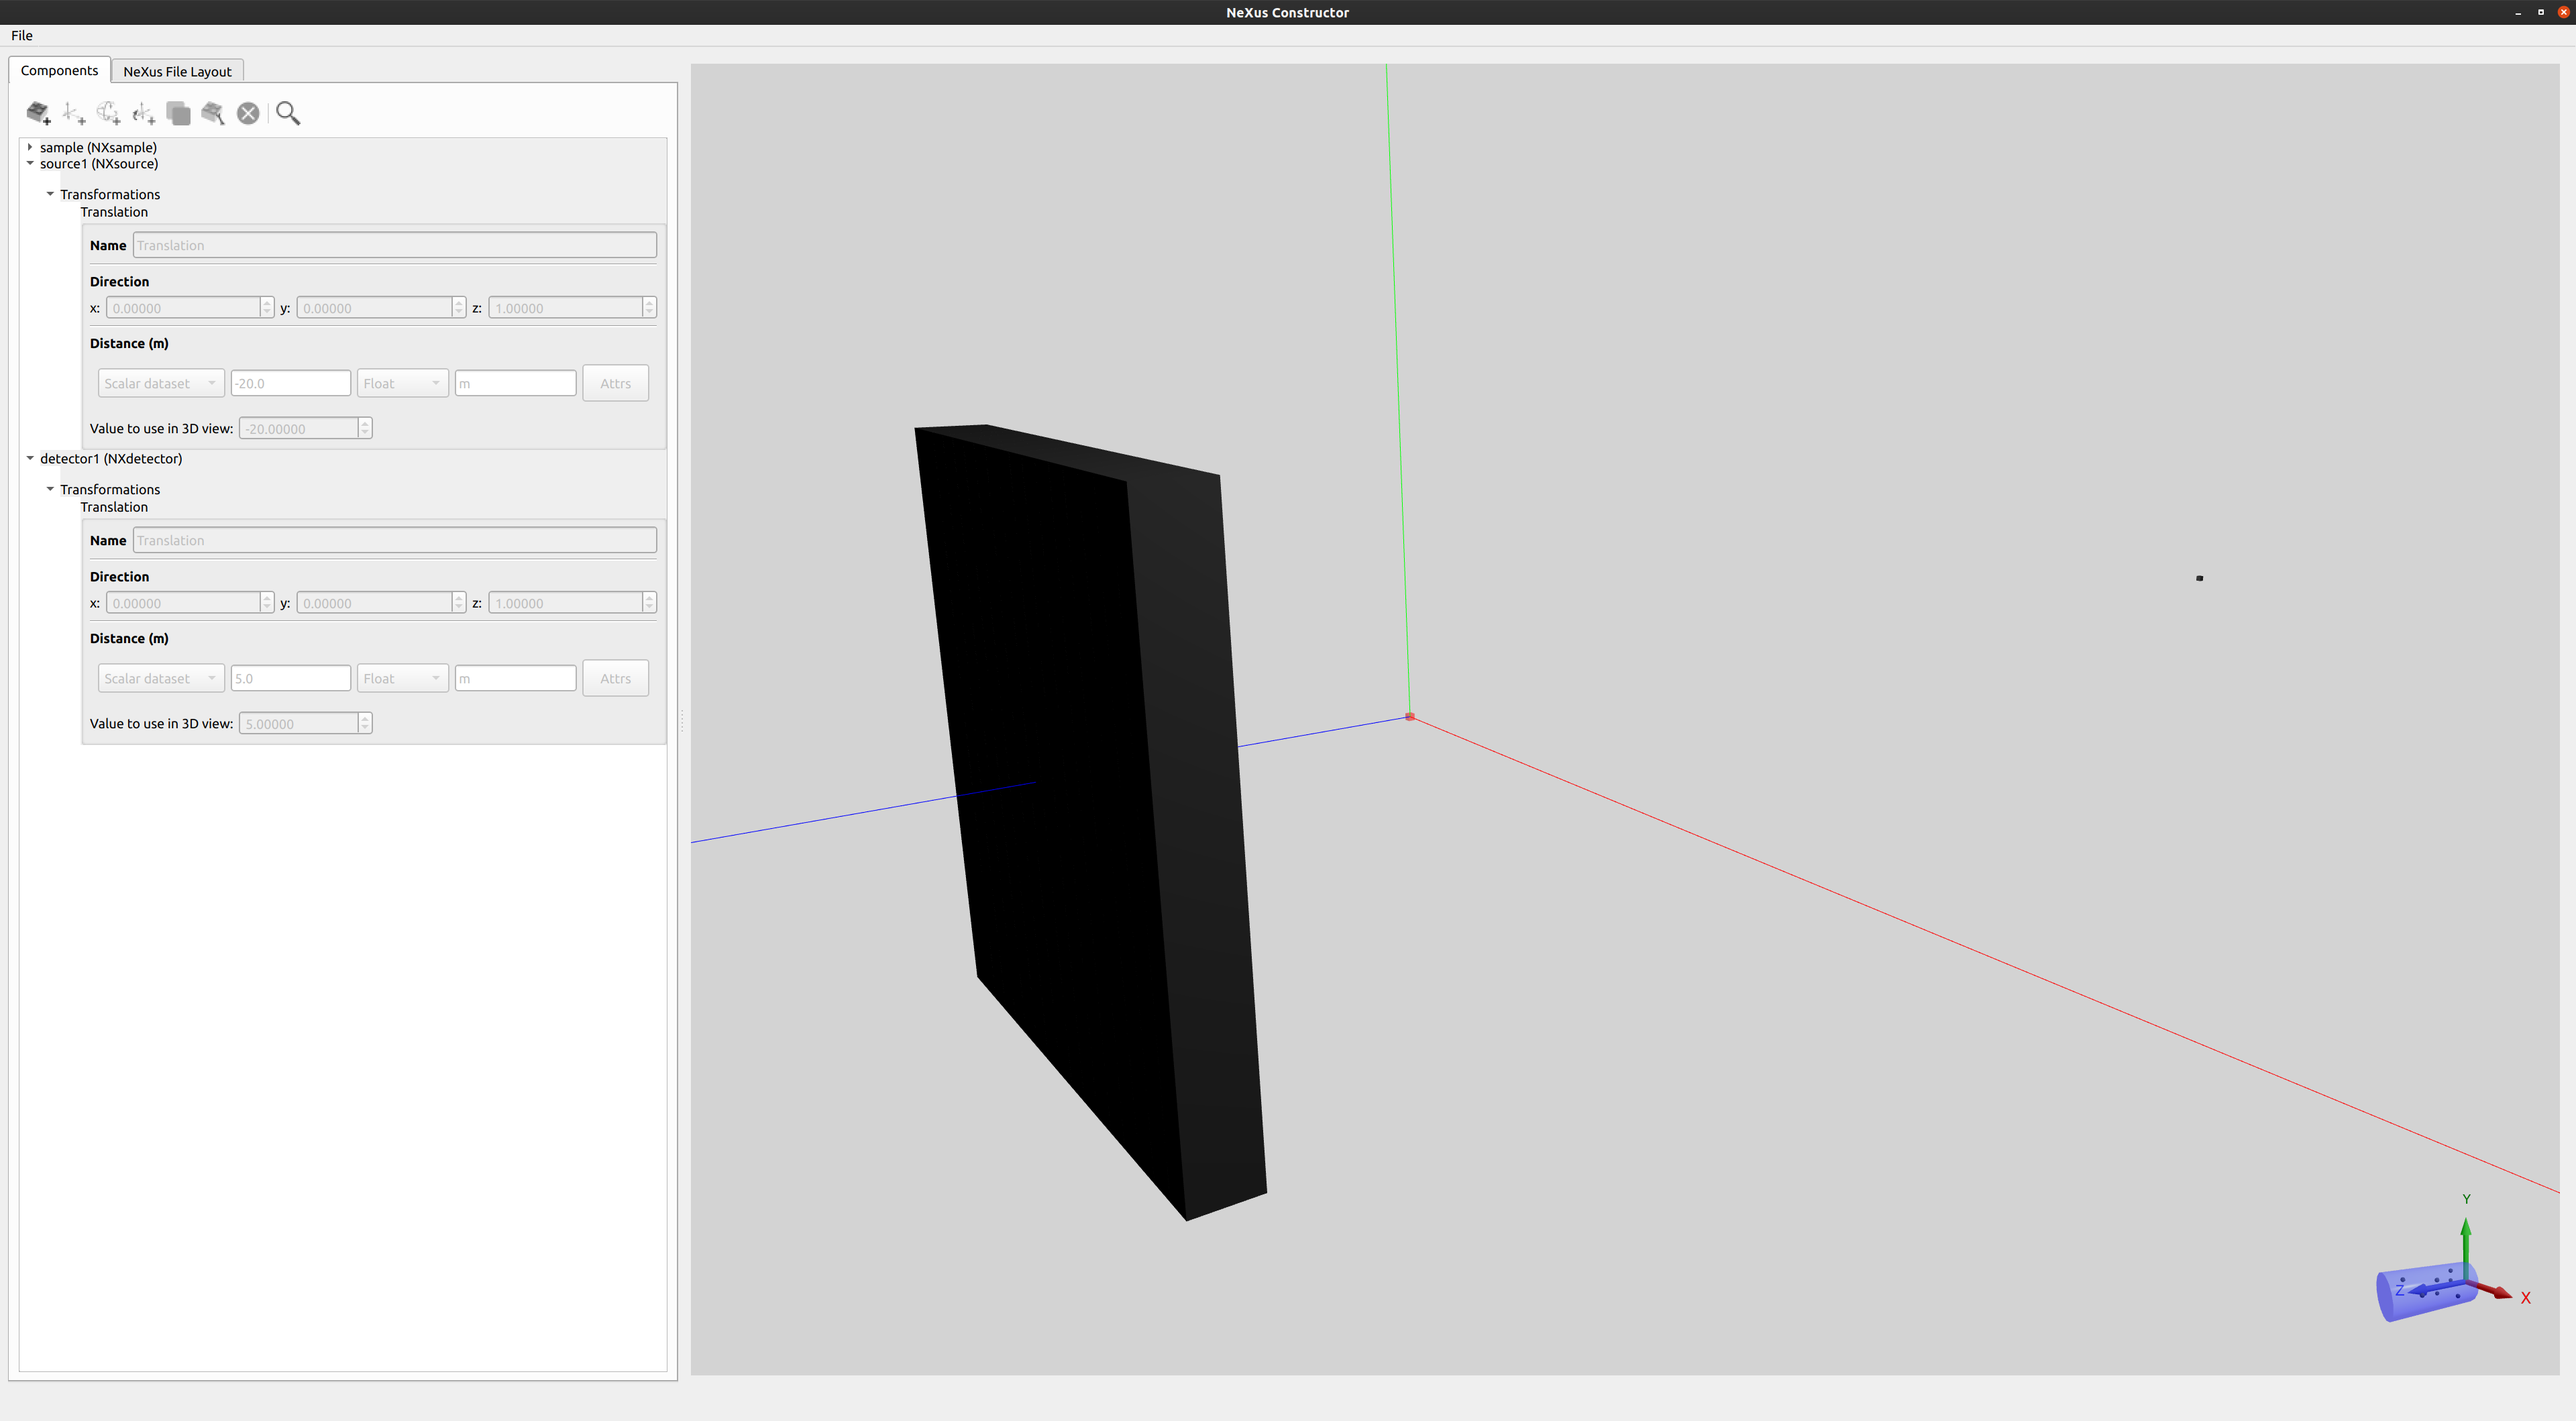
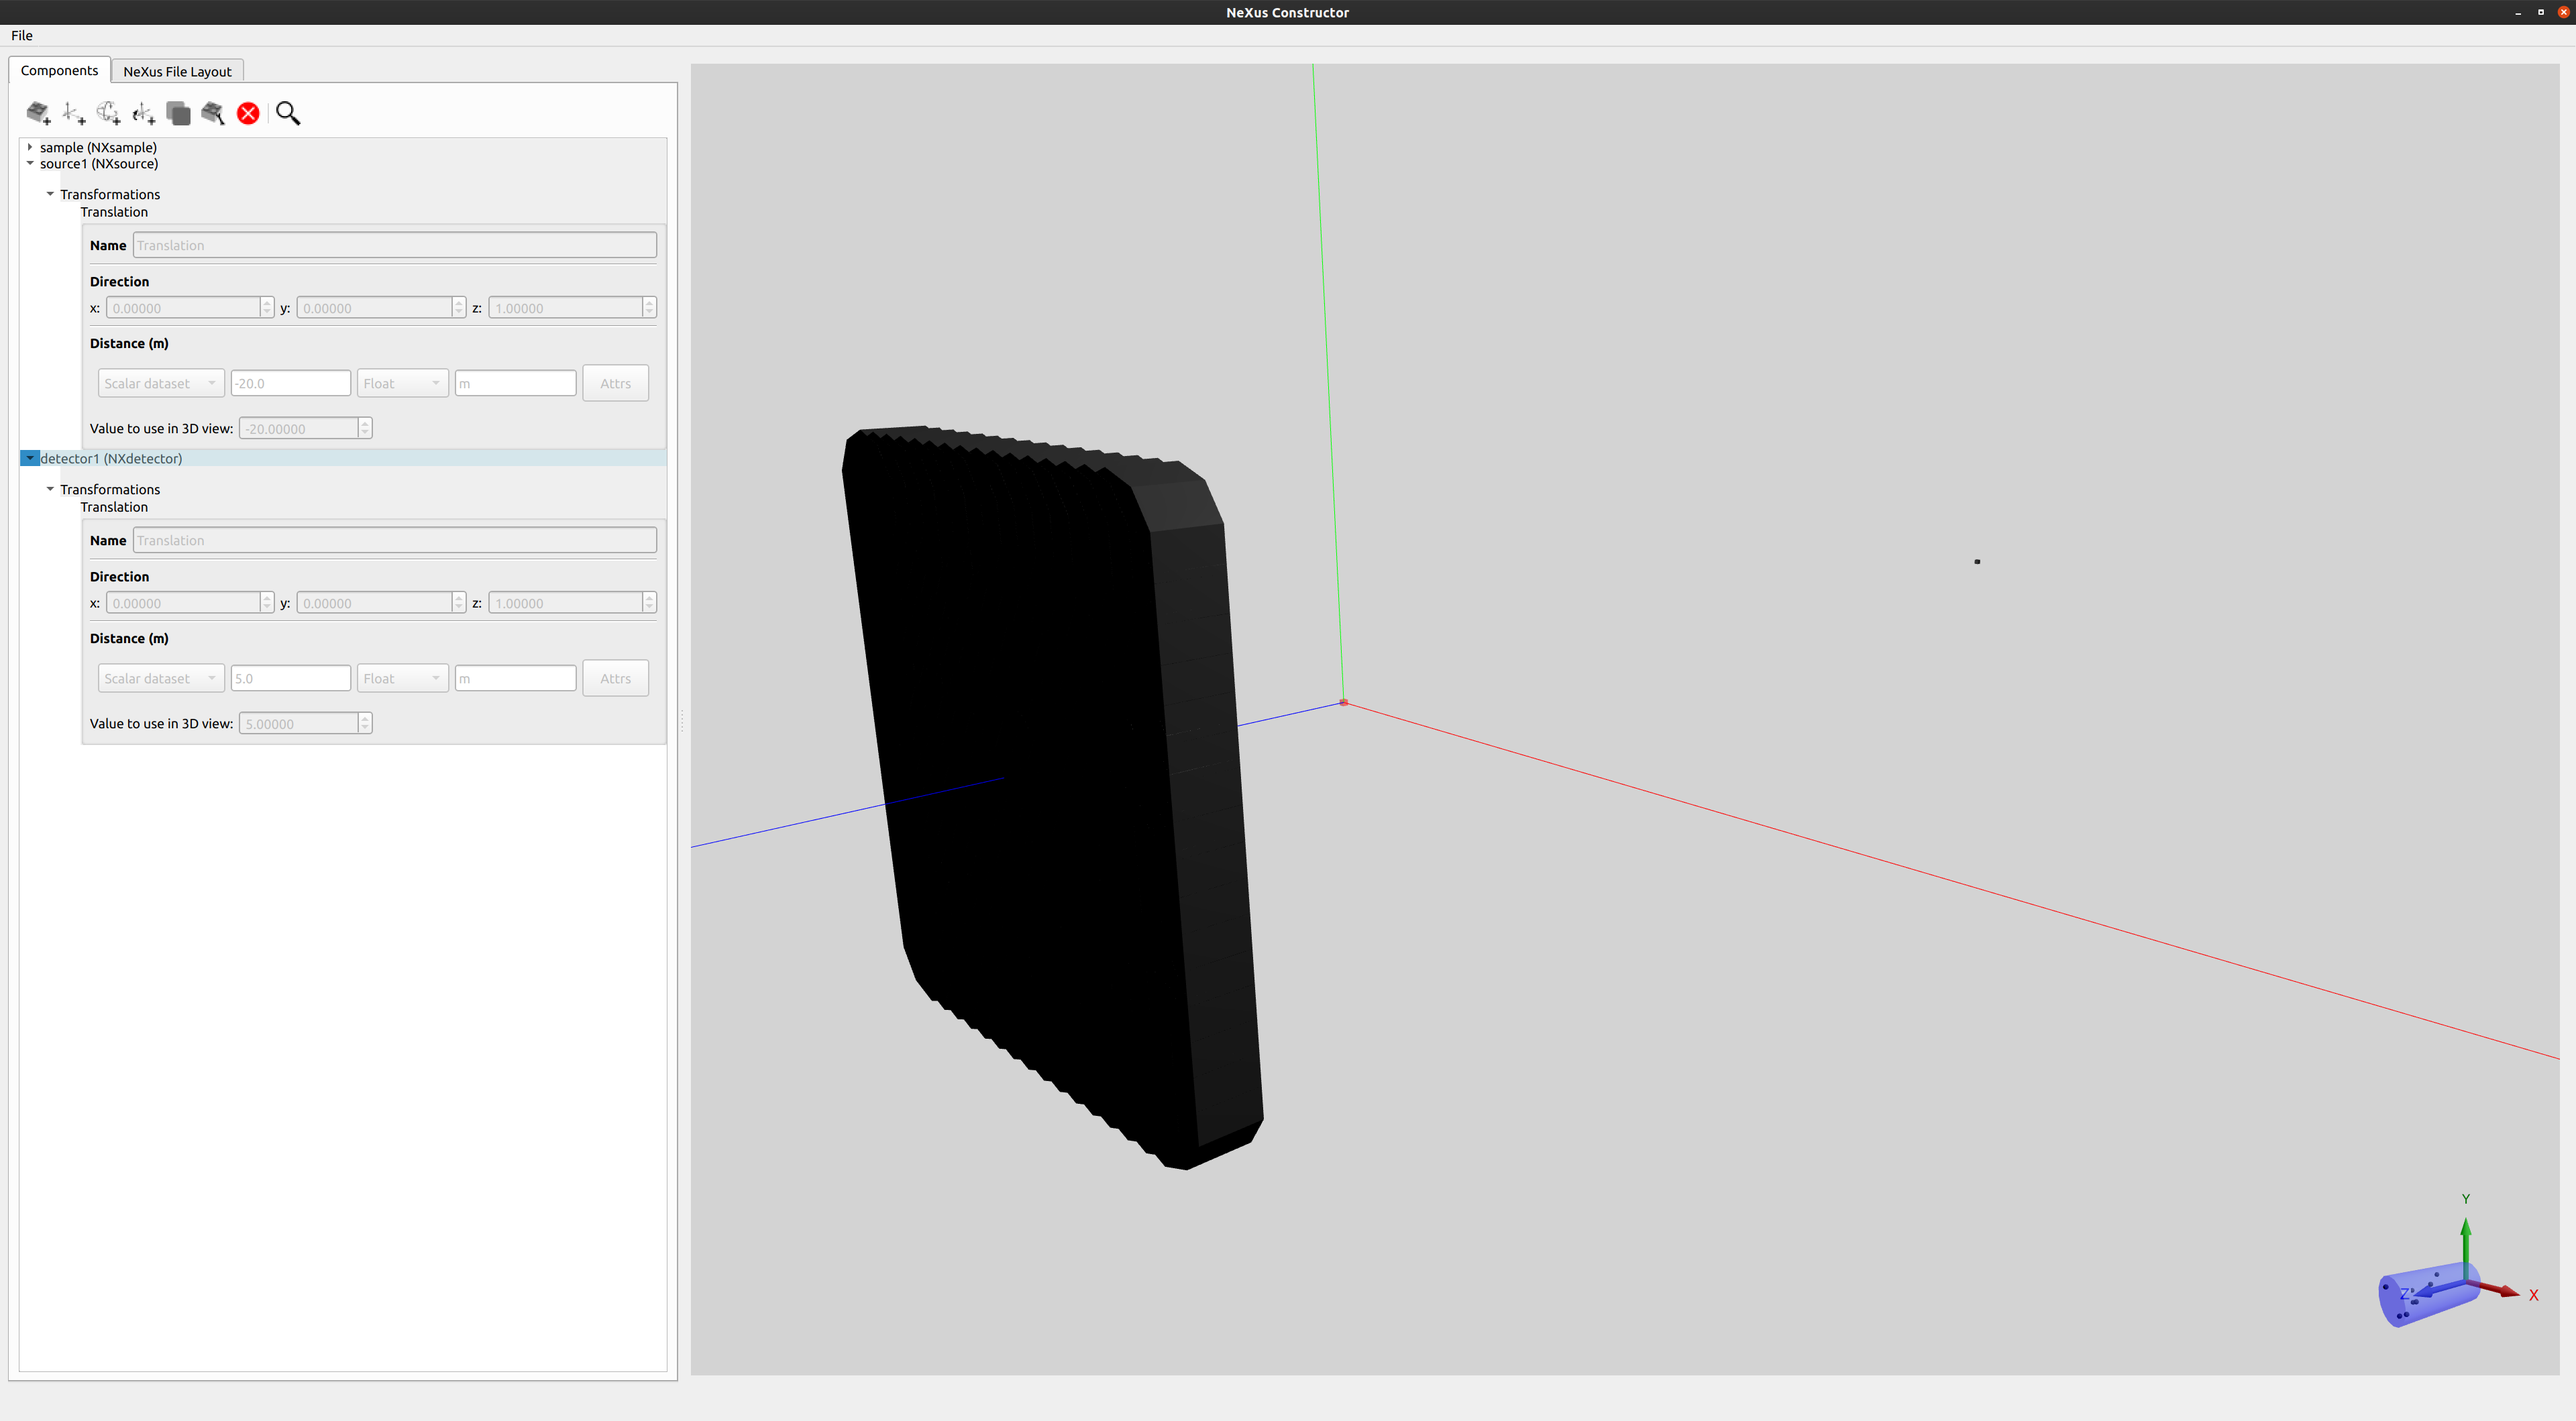
redoing the screenshot with cylinders instead of cubes, removing todo, adding a bit more on what's happening

diff --git a/getting_started.md b/getting_started.md
@@ -94,9 +94,8 @@ Select "Cylinder" as the "Shape type" and set both the height and radius to 1, a
 We will select the "repeated single pixel shape" here and enter the rows and columns as 16. The row and column heights can be left as their default values.
 
 
-When hitting add, you will notice that the 3D view is updated should contain a grid of 16x16 cylinders. We now just need to move it backwards from the sample by applying another transformation.
+When hitting add, you will notice that the 3D view is updated should contain a grid of 16x16 cylinders. We now just need to move it backwards from the sample by applying another transformation of 5 metres along the z-axis.
 
-TODO: redo this with cylinders
 ![](resources/images/NeXusConstructor_012.png)
 
 ### Adding a Monitor
